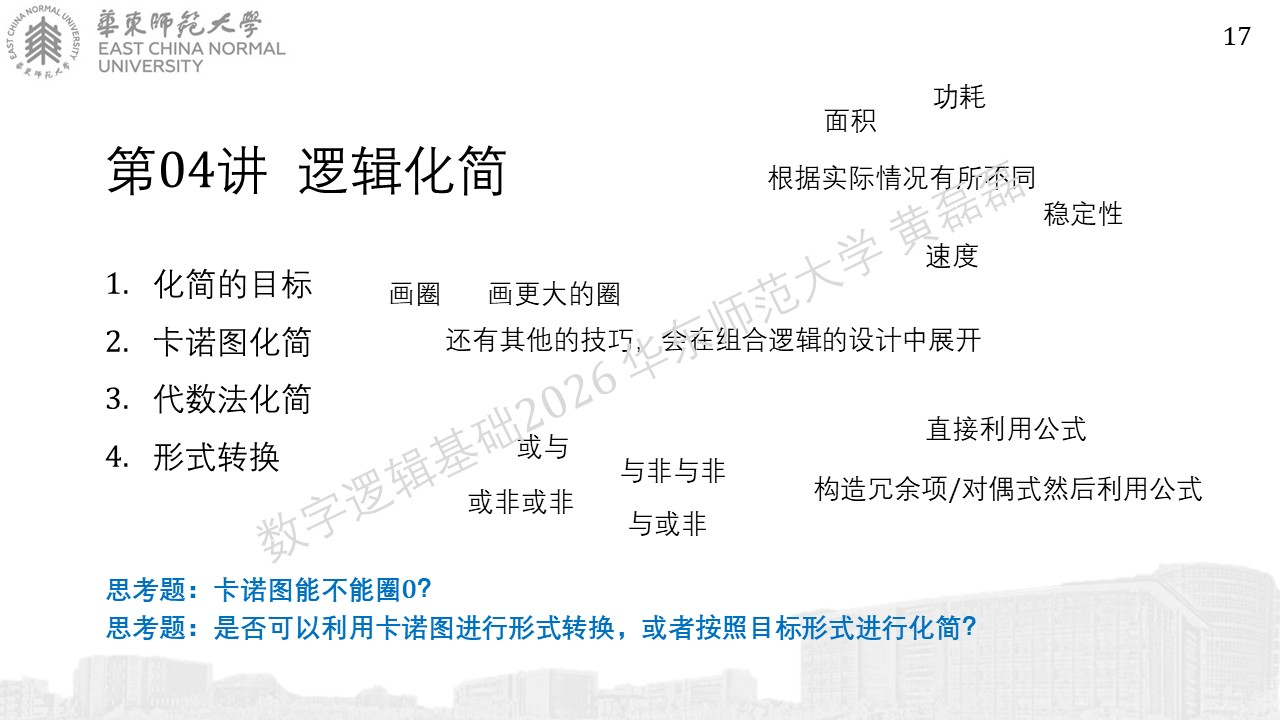
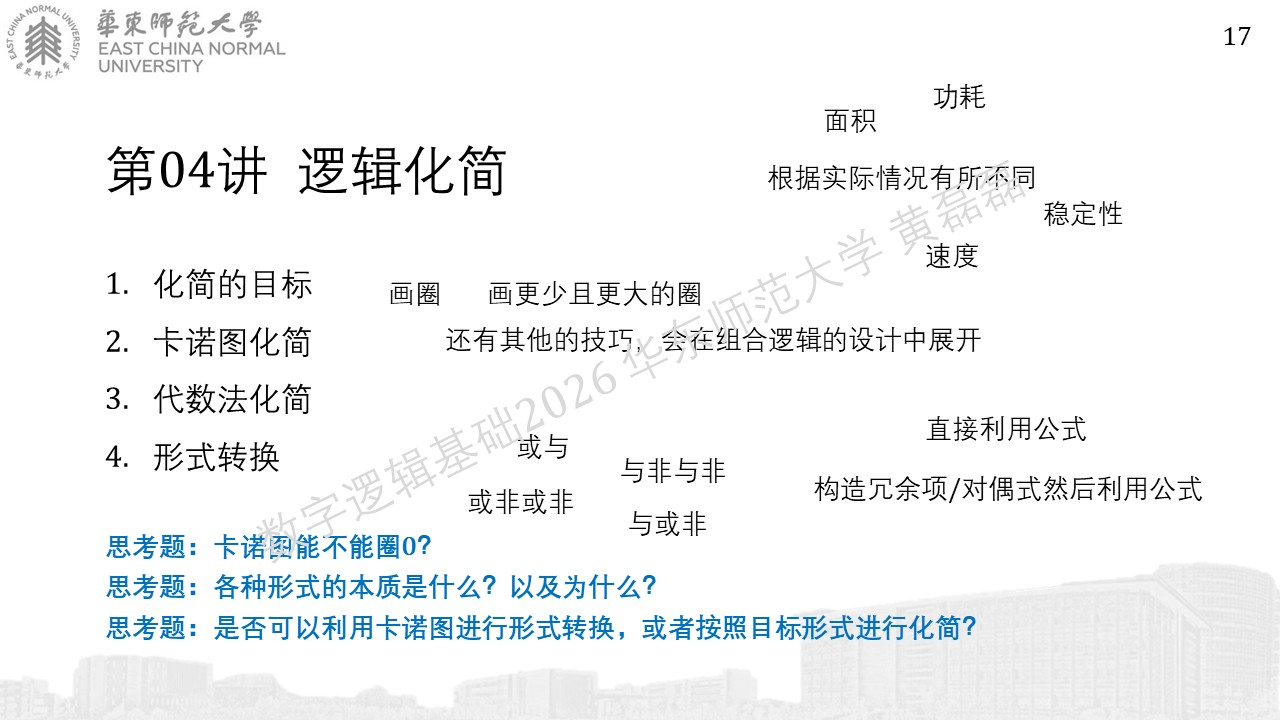
5th lecture

Changed region(s): [[0.0625, 0.7333, 0.5312, 0.8556], [0.4062, 0.3972, 0.5625, 0.4278]]

diff --git a/source/数字逻辑基础 - 第04讲~第05讲 - 补充A - 数制运算和编码/index.rst b/source/数字逻辑基础 - 第04讲~第05讲 - 补充A - 数制运算和编码/index.rst
@@ -1,0 +1,106 @@
+
+.. -----------------------------------------------------------------------------
+   ..
+   ..  Filename       : index.rst
+   ..  Author         : Huang Leilei
+   ..  Status         : phase 000
+   ..  Created        : 2025-09-16
+   ..  Description    : description about 补充A - 数制运算和编码
+   ..
+.. -----------------------------------------------------------------------------
+
+*补充A - 数制运算和编码*
+--------------------------------------------------------------------------------
+
+.. image:: 幻灯片1.JPG
+
+*不同进制及其相互转换*
+........................................
+.. image:: 幻灯片2.JPG
+
+不同的进制
+````````````````````````````````````````
+.. image:: 幻灯片3.JPG
+.. image:: 幻灯片4.JPG
+
+从R进制到十进制
+````````````````````````````````````````
+.. image:: 幻灯片5.JPG
+
+从十进制到R进制
+````````````````````````````````````````
+.. image:: 幻灯片6.JPG
+.. image:: 幻灯片7.JPG
+.. image:: 幻灯片8.JPG
+.. image:: 幻灯片9.JPG
+
+从R进制到二进制
+````````````````````````````````````````
+.. image:: 幻灯片10.JPG
+.. image:: 幻灯片11.JPG
+.. image:: 幻灯片12.JPG
+
+从二进制R到进制
+````````````````````````````````````````
+.. image:: 幻灯片13.JPG
+
+*二进制数的运算*
+........................................
+.. image:: 幻灯片14.JPG
+
+二进制加法
+````````````````````````````````````````
+.. image:: 幻灯片15.JPG
+
+二进制减法
+````````````````````````````````````````
+.. image:: 幻灯片16.JPG
+
+负数的表示方法
+````````````````````````````````````````
+.. image:: 幻灯片17.JPG
+.. image:: 幻灯片18.JPG
+.. image:: 幻灯片19.JPG
+.. image:: 幻灯片20.JPG
+.. image:: 幻灯片21.JPG
+.. image:: 幻灯片22.JPG
+.. image:: 幻灯片23.JPG
+.. image:: 幻灯片24.JPG
+.. image:: 幻灯片25.JPG
+
+带符号二进制数的加减
+````````````````````````````````````````
+.. image:: 幻灯片26.JPG
+.. image:: 幻灯片27.JPG
+.. image:: 幻灯片28.JPG
+.. image:: 幻灯片29.JPG
+.. image:: 幻灯片30.JPG
+
+二进制乘法
+````````````````````````````````````````
+.. image:: 幻灯片31.JPG
+
+二进制除法
+````````````````````````````````````````
+.. image:: 幻灯片32.JPG
+
+带符号二进制数的乘除
+````````````````````````````````````````
+.. image:: 幻灯片33.JPG
+.. image:: 幻灯片34.JPG
+.. image:: 幻灯片35.JPG
+
+.. *其他编码及其相互转换*
+.. ........................................
+.. .. image:: 幻灯片36.JPG
+.. 
+.. 二进制码十进制数
+.. ````````````````````````````````````````
+.. .. image:: 幻灯片37.JPG
+.. .. image:: 幻灯片38.JPG
+.. .. image:: 幻灯片39.JPG
+.. 
+.. 格雷码
+.. ````````````````````````````````````````
+.. .. image:: 幻灯片40.JPG
+.. .. image:: 幻灯片41.JPG

diff --git a/source/index.rst b/source/index.rst
@@ -22,7 +22,7 @@
    数字逻辑基础 - 第02讲 - 逻辑代数 - 基本定理/index
    数字逻辑基础 - 第03讲 - 逻辑代数 - 标准表达形式/index
    数字逻辑基础 - 第04讲 - 逻辑代数 - 逻辑化简/index
-.. 数字逻辑基础 - 第04讲~第05讲 - 补充A - 数制运算和编码/index
+   数字逻辑基础 - 第04讲~第05讲 - 补充A - 数制运算和编码/index
 .. 数字逻辑基础 - 第04讲~第05讲 - 补充B - 编码纠错/index
 .. 数字逻辑基础 - 第05讲 - 组合逻辑 - 电路的分析/index
 .. 数字逻辑基础 - 第06讲 - 组合逻辑 - 电路的设计/index
@@ -69,7 +69,7 @@
    数字逻辑基础 - 第01讲的修订与补充/index
    数字逻辑基础 - 第02讲的修订与补充/index
    数字逻辑基础 - 第03讲的修订与补充/index
-..    数字逻辑基础 - 第04讲的修订与补充/index
+   数字逻辑基础 - 第04讲的修订与补充/index
 ..    数字逻辑基础 - 第04讲~第05讲的修订与补充/index
 ..    数字逻辑基础 - 第06讲的修订与补充/index
 ..    数字逻辑基础 - 第09讲的修订与补充/index

diff --git a/source/数字逻辑基础 - 第04讲的修订与补充/index.rst b/source/数字逻辑基础 - 第04讲的修订与补充/index.rst
@@ -1,0 +1,17 @@
+.. -----------------------------------------------------------------------------
+   ..
+   ..  Filename       : index.rst
+   ..  Author         : Huang Leilei
+   ..  Status         : phase 000
+   ..  Created        : 2025-09-16
+   ..  Description    : description about 第04讲的修订与补充
+   ..
+.. -----------------------------------------------------------------------------
+
+第04讲的修订与补充
+--------------------------------------------------------------------------------
+
+.. image:: 幻灯片1.JPG
+.. image:: 幻灯片2.JPG
+.. image:: 幻灯片3.JPG
+.. image:: 幻灯片4.JPG
